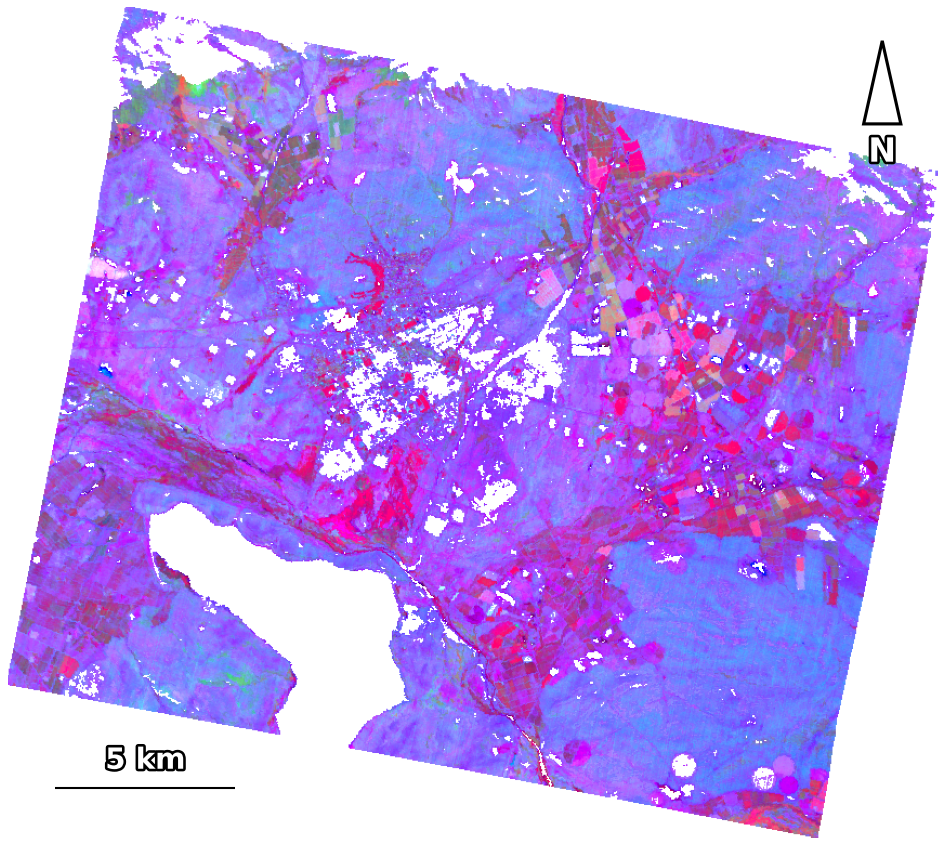
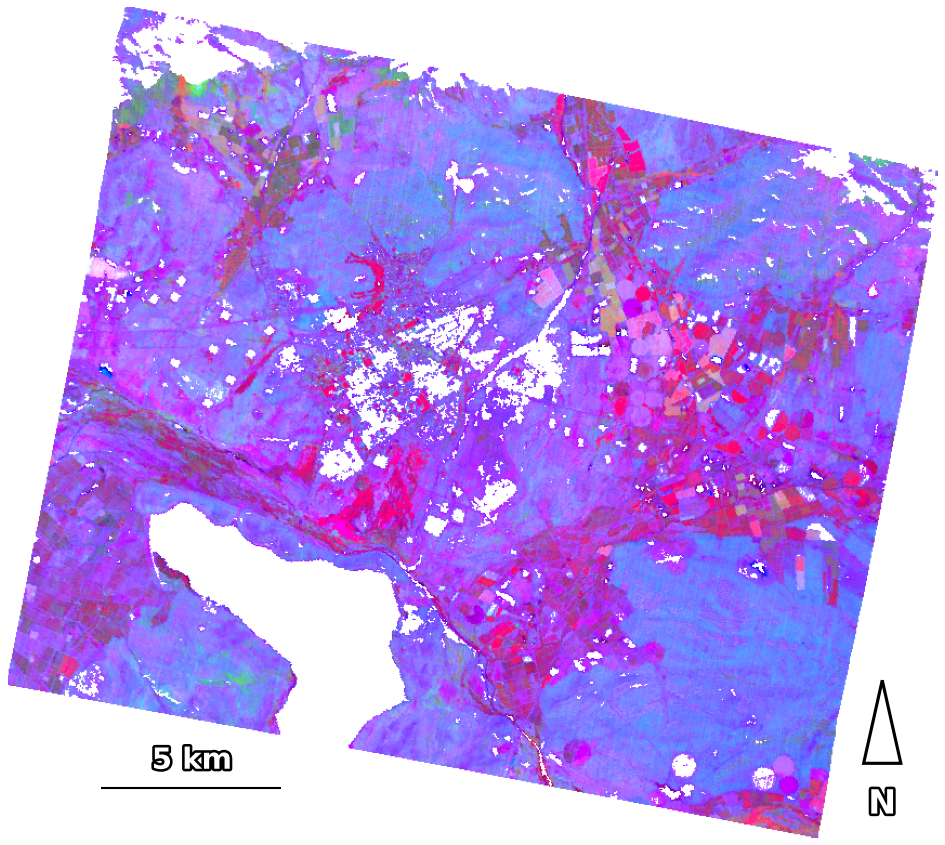
Move ternary map's north arrow to bottom-right, nudge scale bar
North arrow relocated from top-right to bottom-right so it pairs with
the scale bar along the bottom edge; scale bar nudged slightly toward
center per Henry's review.

Changed region(s): [[0.0921, 0.8615, 0.2455, 0.9231], [0.8899, 0.8, 0.9513, 0.9846], [0.8899, 0.0615, 0.9513, 0.2154]]

diff --git a/code/step17_ternary_report_figure.py b/code/step17_ternary_report_figure.py
@@ -1,8 +1,9 @@
 """Render step5's field-referenced ternary GeoTIFF to the report PNG,
-with a north arrow and scale bar -- previously a manual QGIS export with
-neither (2026-08-28, Henry's review). Builds it in Python instead of
-QGIS so the figure is reproducible from this repo alone, same rationale
-as step5's own raw_rgb port.
+with a north arrow (bottom-right) and scale bar (bottom-left, nudged
+toward center) -- previously a manual QGIS export with neither
+(2026-08-28, Henry's review). Builds it in Python instead of QGIS so
+the figure is reproducible from this repo alone, same rationale as
+step5's own raw_rgb port.
 
 The GeoTIFF is UTM 34S (EPSG:32734), 30m pixels, north-up -- a plain
 image plot preserves true north without needing an axes projection.
@@ -38,9 +39,9 @@ def main():
     ax.imshow(img_rgba)
     ax.axis("off")
 
-    # Scale bar: bottom-left, in data (pixel) coordinates.
+    # Scale bar: bottom-left, nudged toward center, in data (pixel) coordinates.
     bar_px = SCALE_BAR_M / px_size_m
-    margin_x = width * 0.05
+    margin_x = width * 0.10
     margin_y = height * 0.06
     bar_y = height - margin_y
     ax.plot([margin_x, margin_x + bar_px], [bar_y, bar_y], color="white",
@@ -51,17 +52,18 @@ def main():
             color="white", ha="center", va="bottom", fontsize=14, fontweight="bold",
             path_effects=[matplotlib.patheffects.withStroke(linewidth=2.5, foreground="black")])
 
-    # North arrow: simple solid triangle, top-right, with N below the base.
+    # North arrow: simple solid triangle, bottom-right, with N below the base.
     arrow_x = width * 0.94
-    arrow_top = height * 0.04
-    arrow_base = height * 0.14
+    text_y = height - margin_y
+    arrow_base = text_y - height * 0.03
+    arrow_top = arrow_base - height * 0.10
     arrow_half_width = width * 0.02
     triangle = Polygon(
         [(arrow_x, arrow_top), (arrow_x - arrow_half_width, arrow_base), (arrow_x + arrow_half_width, arrow_base)],
         closed=True, facecolor="white", edgecolor="black", linewidth=1.5,
     )
     ax.add_patch(triangle)
-    ax.text(arrow_x, arrow_base + height * 0.015, "N", color="white", ha="center",
+    ax.text(arrow_x, text_y, "N", color="white", ha="center",
             va="top", fontsize=16, fontweight="bold",
             path_effects=[matplotlib.patheffects.withStroke(linewidth=2.5, foreground="black")])
 
